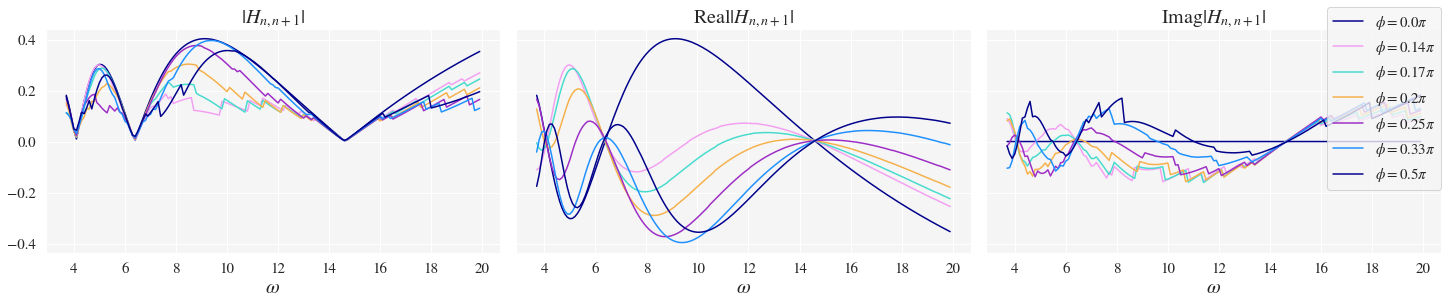
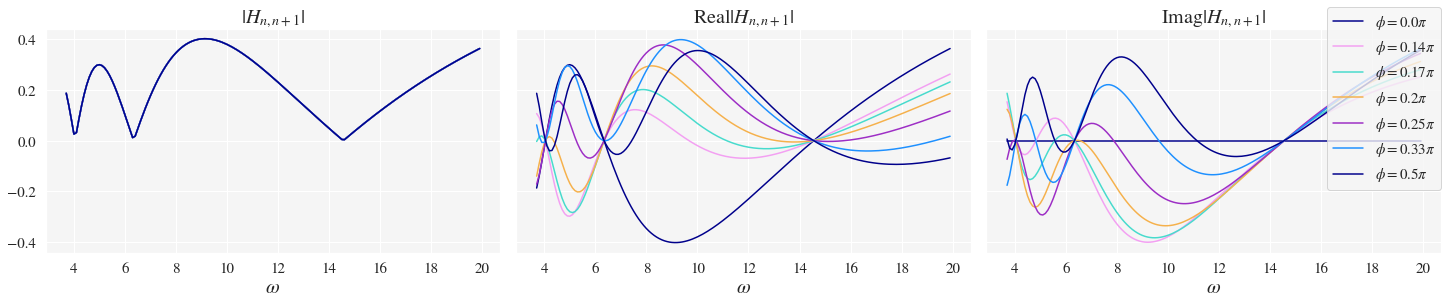
updates

diff --git a/density_evolution.py b/density_evolution.py
@@ -16,6 +16,7 @@ from hamiltonians import F_MG, F_OSC, create_HF, solve_schrodinger
 
 import matplotlib
 import seaborn as sns
+from scipy.special import jv
 
 from math import log as mathlog
 
@@ -48,8 +49,8 @@ centre = 25
 a = 35;
 b = np.nan
 c = np.nan 
-omega=6.34; 
-phi=pi/2;
+phi=pi/3
+omega=a*sin(pi/3)/pi
 T=2*pi/omega
 tspan = (0,10)
 Nt = 100
@@ -59,7 +60,7 @@ rtol=1e-7
 t_eval = np.linspace(tspan[0], tspan[1], Nt)
 psi0 = np.zeros(N, dtype=np.complex_); psi0[A_site_start] = 1;
 
-
+hopping = exp(1j*a*sin(phi)/omega)*jv(0,a/omega)
 
 import numpy as np
 import matplotlib as mpl
@@ -73,9 +74,12 @@ sz = 10
 
 
 fig, ax = plt.subplots(figsize=(sz,sz/2))
-ax.plot(t_eval,(np.abs(sol.y)[25])**2)
-ax.set_title('occupation of centre site')
-ax.set_xlabel('t')
+ax.plot(np.linspace(0,50,51),(np.abs(sol.y.T[99]))**2)
+ax.set_title(r'$V(t) = 35 \cos( $' + str(round( omega, 2)) + r'$t + \pi /$' +
+             str(int(1/(phi/pi))) + 
+              r'$) $'+' |25><25|' + '\n'+r'$G_{25,26} = $'+"{:.1g}".format(hopping) + '\n' +
+              r'$|\psi(t)|^2$ at $t_f$')
+ax.set_xlabel('n')
 plt.show()
 
 
@@ -100,8 +104,14 @@ for i in range(3):
         ax[i].set_ylabel('site')
 
 
-fig.colorbar(plt.cm.ScalarMappable(cmap='Purples'), shrink=.5, pad=.05, aspect=15, fraction=.1)
-# fig.suptitle('F = '+str(a)+', omega='+str(omega)+ ', phi='+str(phi))
+
+fig.colorbar(plt.cm.ScalarMappable(cmap='Purples'), shrink=.5)
+
+fig.suptitle(r'$V(t) = 35 \cos( $' + str(round( omega, 2)) + r'$t + \pi /$' +
+             str(int(1/(phi/pi))) + 
+              r'$) $'+' |25><25|' + '\n'+r'$G_{25,26} = $'+"{:.1g}".format(hopping) + 
+              r', $\quad |G_{25,26}| = $'+ "{:.1f}".format(np.abs(hopping)), y = 0.85)
+
 # fig.savefig('/Users/Georgia/Dropbox/phd/own_notes/'+
 #         'first_year_report/densityevolution,F=30,w=7p83,ph=0.pdf', 
 #         format='pdf', bbox_inches='tight')
@@ -117,7 +127,7 @@ centre = 20
 a = 35;
 b = np.nan
 c = np.nan 
-omega=6.34; 
+omega=7; 
 phi=0;
 T=2*pi/omega
 tspan = (0,10)

diff --git a/HF_analysis.py b/HF_analysis.py
@@ -101,7 +101,7 @@ Plot General
 """
 
 N = 51; 
-forms=['OSC']
+forms=['theoretical']
 # rtols=[1e-6, 1e-7, 1e-8, 1e-9, 1e-10, 1e-11]
 rtols=[1e-7]
 aas = [35]
@@ -228,9 +228,6 @@ fig.savefig(sh+'test.png',
 plt.grid(True)
 plt.show()
 
-
-
-#%%
 
 
 
